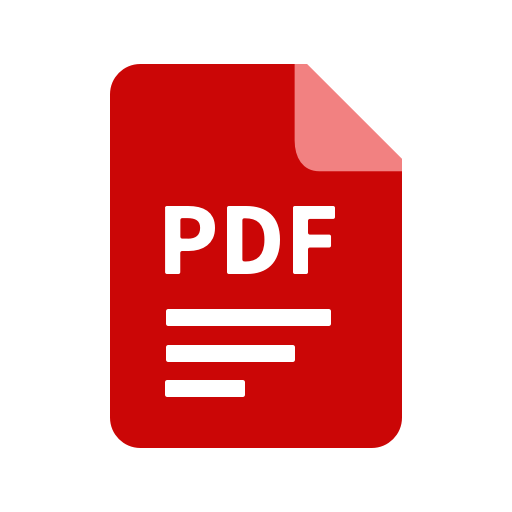
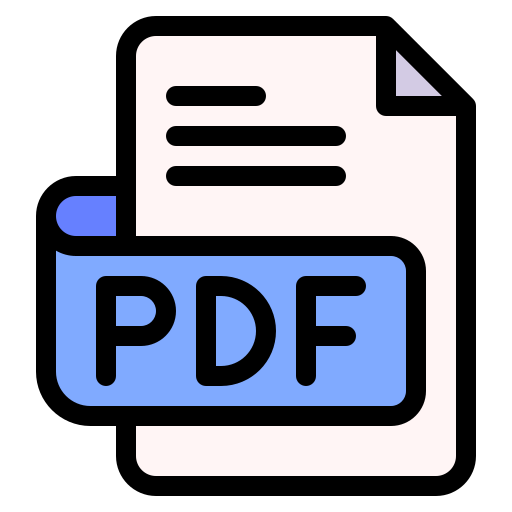
feat: 확장자에 따른 미리보기 변경

diff --git a/src/components/Main.tsx b/src/components/Main.tsx
@@ -67,13 +67,19 @@ const ExampleImg = styled.img`
 `;
 
 const Main: React.FC = () => {
-  const [fileName, setFileName] = useState<string>("");
+  const [file, setFile] = useState<File | null>();
+  const [fileExtension, setFileExtension] = useState<string | null>();
 
   const fileUploadHandle = (e: ChangeEvent<HTMLInputElement>) => {
     e.preventDefault();
     if (e.target.files) {
-      const file: File | null = e.target.files[0];
-      setFileName(file.name);
+      setFile(e.target.files[0]);
+
+      const fileNameParts = e.target.files[0].name.split(".");
+      if (fileNameParts.length > 1) {
+        const extension = fileNameParts.pop()!.toLowerCase(); // 소문자로 변환
+        setFileExtension(extension);
+      }
     }
   };
 
@@ -89,10 +95,15 @@ const Main: React.FC = () => {
               marginBottom: 40,
             }}
           >
-            {fileName && (
+            {file && (
               <>
-                <ExampleImg src="/assets/pdf.png" alt="파일" />
-                {fileName}
+                <ExampleImg
+                  src={`/assets/${
+                    fileExtension === "pdf" ? "pdf" : "docx"
+                  }.png`}
+                  alt="파일"
+                />
+                {file.name}
               </>
             )}
           </div>
@@ -102,7 +113,7 @@ const Main: React.FC = () => {
             id="file"
             onChange={fileUploadHandle}
             style={{ display: "none" }}
-            accept=".pdf, .docx"
+            accept=".pdf, .docx, .doc"
           />
           <UploadLabel htmlFor="file">파일 선택</UploadLabel>
         </FileDiv>
